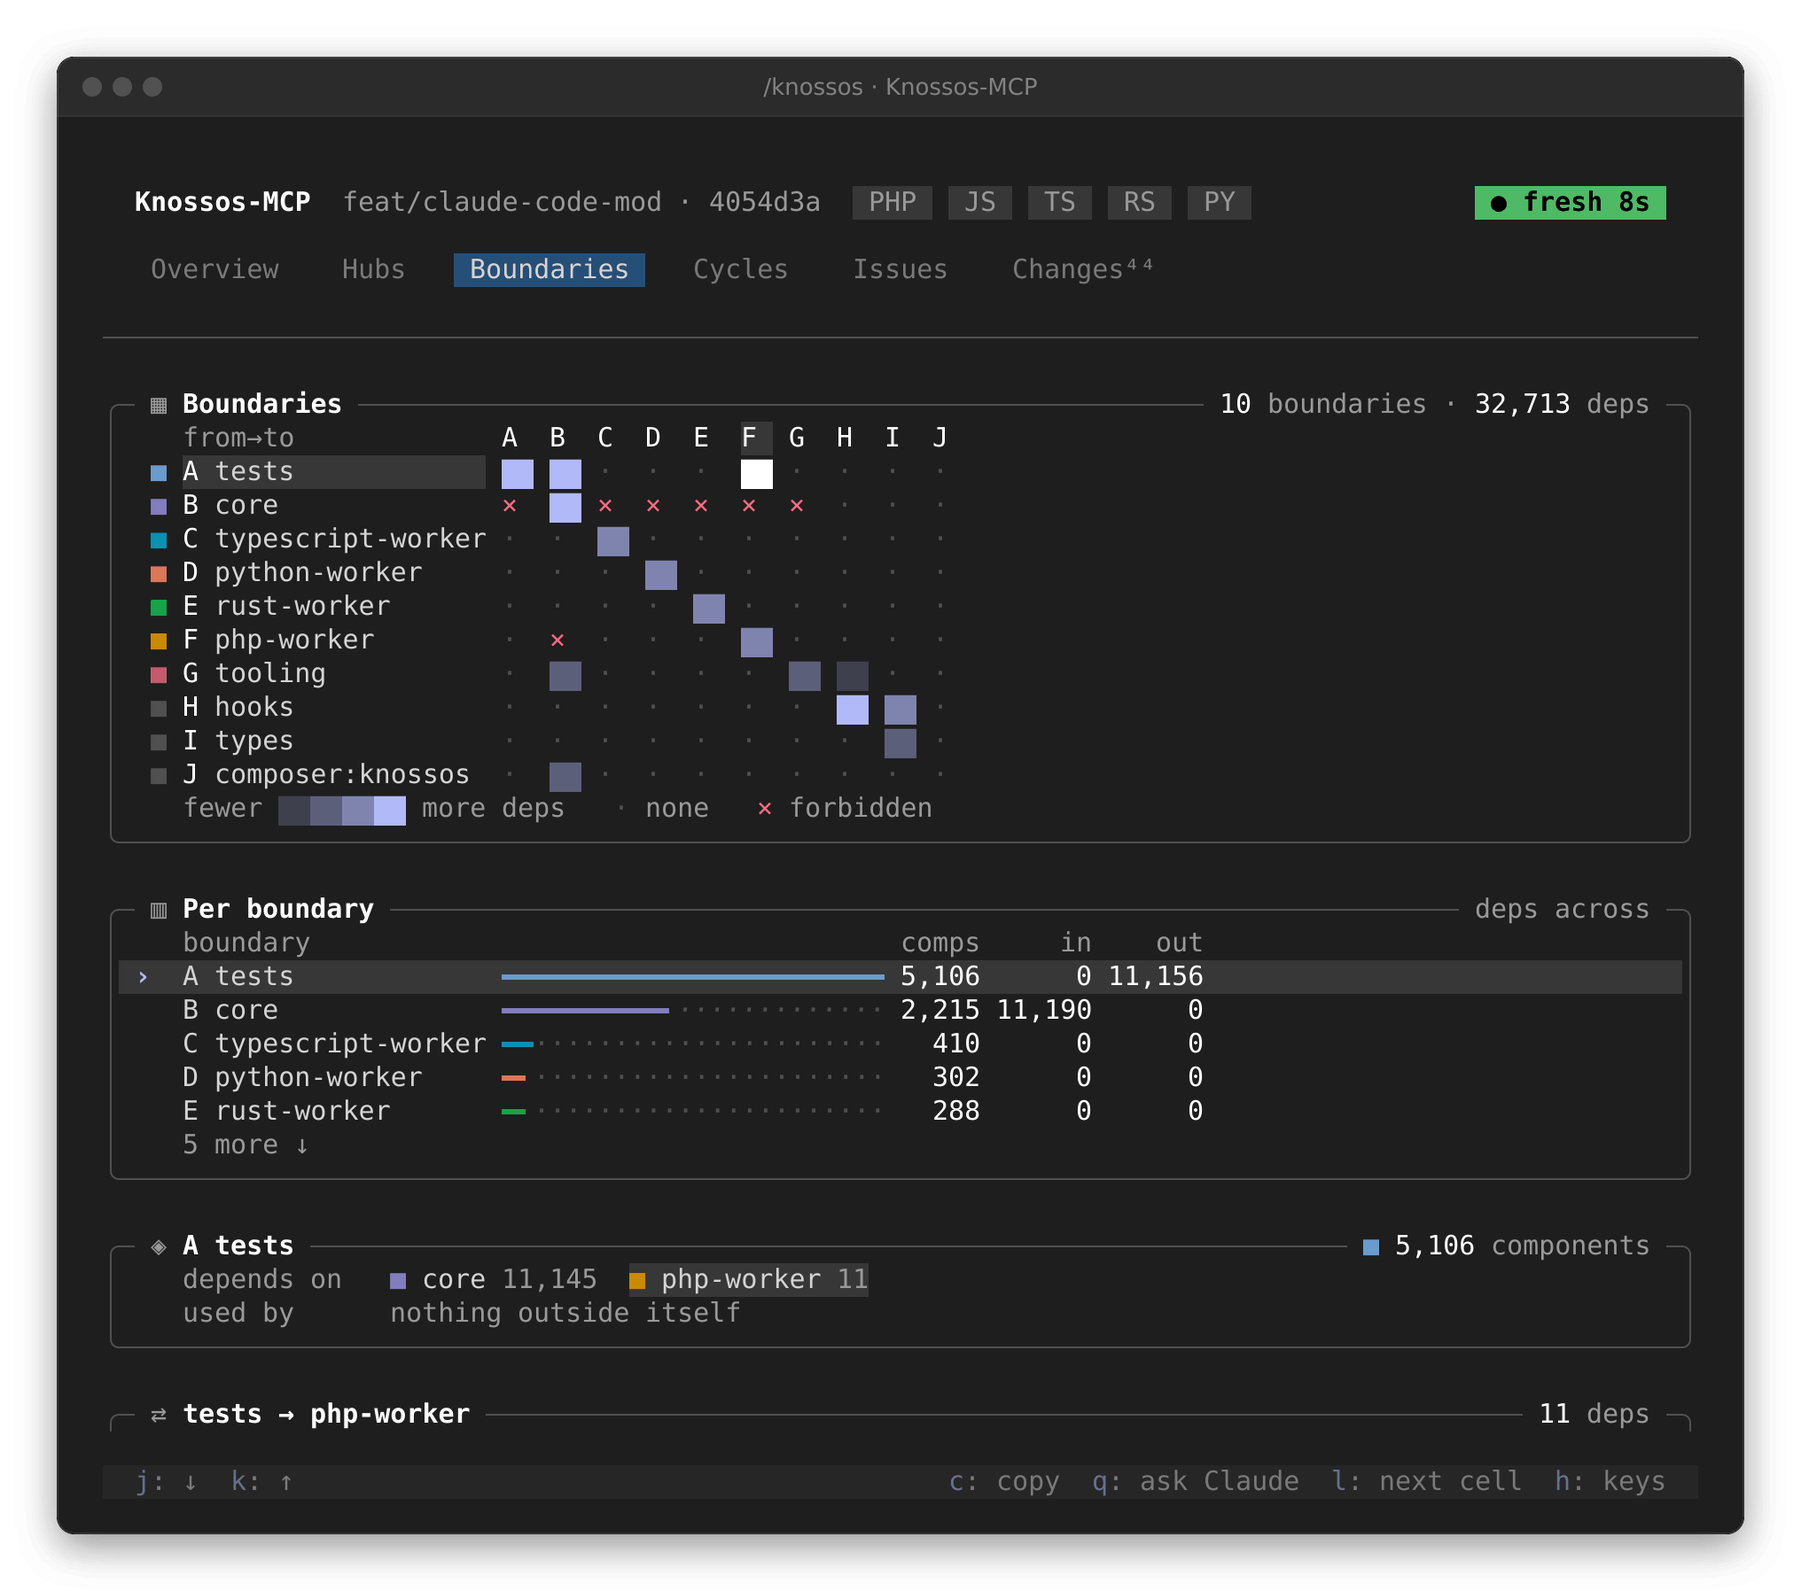
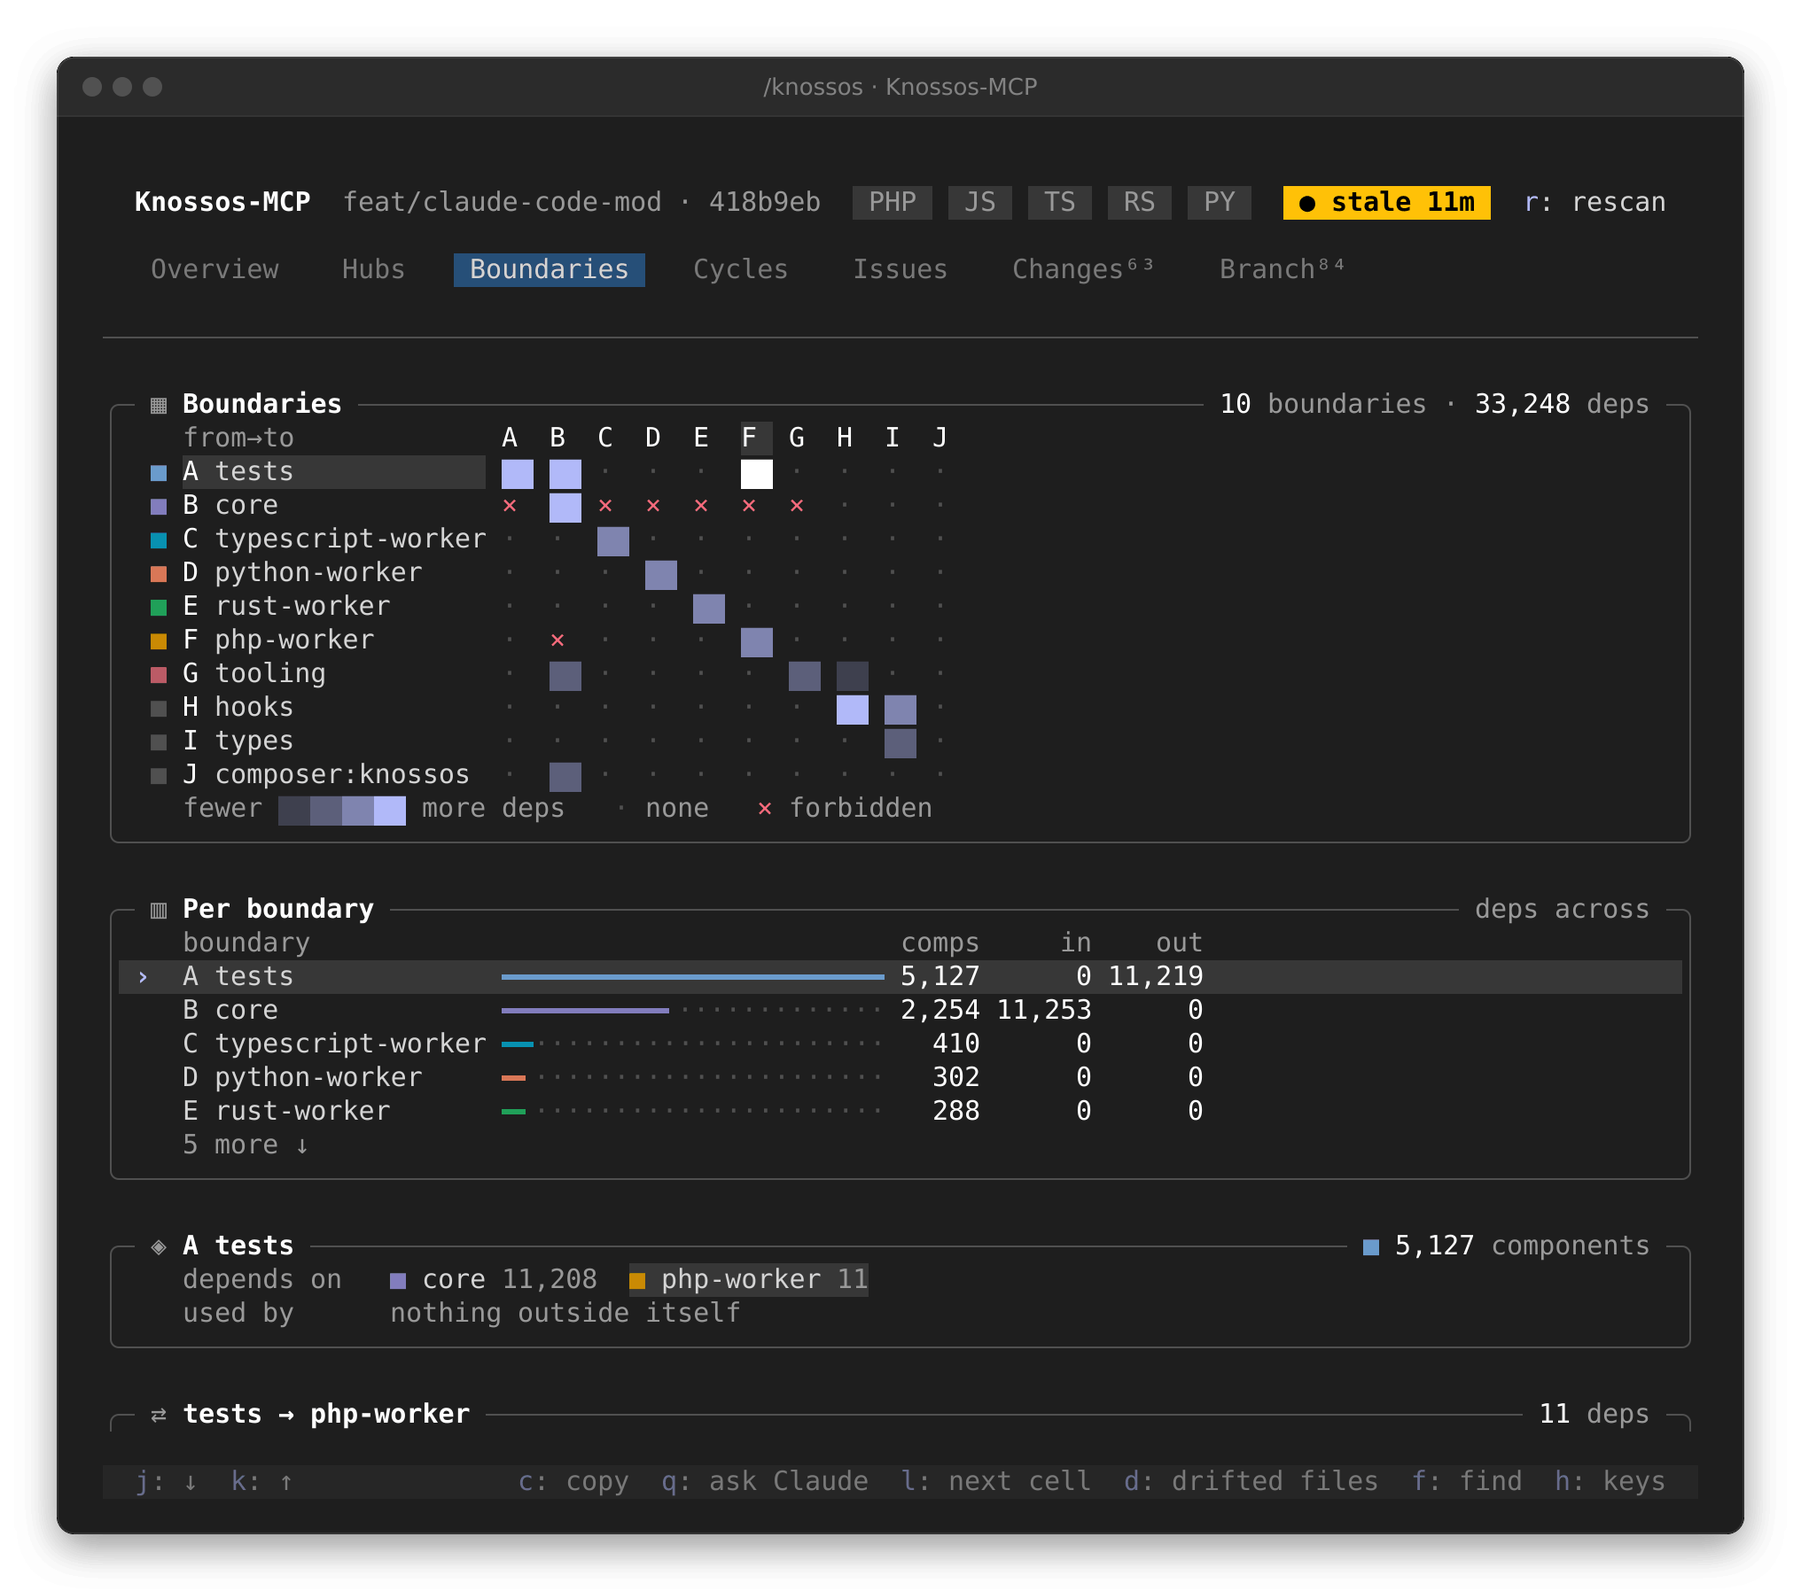
docs(mod): describe master-detail, two-tone paths, the row flash, the finder, the Branch tab, the untested marks, the knossos_context tool and the commit note, and redraw the README screenshots

diff --git a/docs/capabilities/claude-code-mod.md b/docs/capabilities/claude-code-mod.md
@@ -108,6 +108,33 @@ that cap is said at the next Read or edit of the file. A note that fails
 leaves the tool result as it was and one line in the debug log. A turn ends with at most one
 note. `agentNotes` turns them all off; the toast stays.
 
+**After a commit.** When a Bash call in any loop runs `git commit` (with
+options before it, as in `git -C dir commit`, or anywhere in a chain), the
+call's result carries one note of what the commit takes along, as far as the
+graph knows: the boundary-policy violations the session's turns introduced,
+the changed files no test reaches, and the cycles new since the session
+began (against the cycles the graph held when the session began):
+
+```text
+knossos: this commit carries 1 changed file no test reaches (src/Kernel.php); 1 dependency cycle new since the session began (Router → Kernel). Check them before you push.
+```
+
+Nothing new, no note. The same note is said once per loop, counts against
+the three notes a turn, and `agentNotes` turns it off.
+
+**On request.** The mod registers a tool the model calls itself,
+`knossos_context` (listed as `mcp__knossos__knossos_context`), with one
+argument, `path` (relative to the project or absolute). One call answers in
+a few lines, at most 2,000 characters: the file's boundary, language, lines
+and components; how many files depend on it, in which boundaries, and the
+closest five; the declared rules that bind it (or that a cap leaves that
+open); the tests that reach it, nearest first; its three latest commits;
+and whether this session changed it. It reads `knossos file-context <file>`
+through the wrapper when it is called (never in a drawing), and answers a
+path outside the project, or a project never scanned, with a sentence that
+says so. It is registered at the session's start, with the same retries as
+`/knossos`, whatever `agentNotes` says: the model asks for it.
+
 Approximate cost on this repository: 20 to 60 tokens for a Read note (60
 only for the first file read in a policed boundary), about 35 for an edit
 note, about 50 for a tests note naming three PHPUnit classes (up to about
@@ -186,7 +213,65 @@ Changes the files beside the tests; Issues the cards with nothing to list side
 by side as one-line rules first, then the lists in pairs. Cycles and a
 detail stand in one column at every width, since a diagram wants the room.
 
-Nothing the pane draws can wrap or push its card wider, on a terminal that
+Past 130 columns, Hubs, Changes, Issues, Cycles and Branch are master and
+detail: the tab on the left (55 percent, as a medium pane lays it out) and,
+beside it, the detail of the marked row, a component's neighbourhood or a
+file's dependents (with its change since the session began, drawn as text
+lines in the added and removed colours, since the engine's diff element
+spans the pane). Moving the marker looks the new row up after a short pause,
+so a run of `j` presses is one lookup; a press in the panel opens its row as
+the detail itself. A row with nothing to show (a boundary, a chart's bar)
+shows the tab alone. Boundaries keeps its own grid, whose lower row already
+spells out the marked boundary and its cell. Narrower panes open a row with
+`o`, as before.
+
+The cards stretch to the pane's foot: the last card of a column, or the rows
+of cards side by side in a grid, take the rows left over, so nothing ends
+above blank space. On a tall Overview the rows left after the charts go to
+two secondary lists, the complexity hotspots and the files most depended
+on, each a link to its file; on a shorter pane they are left out, and the
+marker never walks them, so what it walks does not depend on the height.
+
+Paths are drawn in two tones, the directory dim and the file name in the
+text colour. A path too long for its column loses the middle of its
+directory first, by whole folders (`src/…/Query/`, then `…/Query/`), then
+characters; the file name is cut only when it alone is wider than the
+column.
+
+When a new snapshot lands, the rows whose figures it changed (a hub's
+degrees, a file's dependents, a boundary's members, a stat tile's figure, a
+changed file a newer scan took in again) are drawn on a cool ground for
+about three seconds, then go back. The marked row keeps its own ground.
+
+`f` opens the finder over any tab: a field and the components and files
+whose name holds the typed letters in order (`dsvc` finds
+`DashboardService`), a type before its members, the closest first, at most
+twenty. The search (`knossos graph-search`) runs after a short pause in the
+typing, never in a drawing; until its answer for what is typed lands the
+card says `searching…` and keeps the last matches. Enter opens the first
+match (or the marked one), a click any; a component opens as its detail, a
+file as the file's. `x` or an empty Enter closes it, and the tab under it
+comes back as it was.
+
+The Branch tab (`7`) compares the checked-out branch with the snapshot taken
+where it left its default branch. `knossos branch-diff` finds the merge base
+through git, locally (the default branch is the one `origin/HEAD` names, else
+`main` or `master`), and matches it to a retained snapshot by the commit each
+scan was taken at: one at the merge base, else the nearest one before it
+(the tab says how many commits earlier). Then it lists what is new since:
+dependencies crossing from one boundary into another, cycles whose members
+did not already form one, hubs at least ten components depend on that more
+depend on now, newly unreferenced components, and policy violations whose
+dependency is new. Each list counts all and names the first eight, and each
+row opens its component. When no snapshot near the merge base is retained,
+the tab says so in the warning colour: with a snapshot taken after it, it
+compares against that one and says how many of the branch's commits it
+already holds, so what they changed is not shown; with none, it compares
+nothing. On the default branch itself, or without git, it says that too.
+The comparison is read when the tab opens and again for each new snapshot,
+never while another tab is open. The tab label counts what it found.
+
+Nothing the pane draws can wrap or push its card wider,Nothing the pane draws can wrap or push its card wider, on a terminal that
 counts cells as the layout does or not: every row is a box as wide as the
 pane that clips what passes its edge, every text in it cuts at that edge
 with an ellipsis, and a pressable name draws the name as the layout cut it,
@@ -207,8 +292,8 @@ between the lists in turn, up to ten each; then the charts take what they
 can use (the heat map's cells grow from one row to two or three); then the
 lists take the rest, up to 28 rows each. A chart in one column of
 the wide grid stops growing once it would leave the other column more than
-three rows shorter. The dashboard sends up to fifty hubs, hotspots, dead-code
-candidates and largest files, enough for a tall pane. A list cut short says `n more ↓` (and `n above ↑`
+three rows shorter. The dashboard sends up to fifty hubs, hotspots and dead-code
+candidates and thirty complexity hotspots and files over budget, enough for a tall pane. A list cut short says `n more ↓` (and `n above ↑`
 once the marker has moved down it), and moving the marker scrolls it. A pane
 too short for even those few rows scrolls as a whole.
 
@@ -401,9 +486,9 @@ change` for a flat one, drawn faint). Only with five snapshots or more.
   on, the bucket may count more) and the files step aside; `x` clears it, as
   does another tab.
   `◆` marks a hotspot
-  that is not also a hub. Methods read `Class::method`. `f` opens a filter
+  that is not also a hub. Methods read `Class::method`. `n` opens a filter
   field: the list narrows as you type to the components whose name holds the
-  text, Enter keeps the filter and `x` clears it. `s` sorts by in, out or
+  text, Enter keeps the filter and `x` clears it (`f` is the finder, on every tab). `s` sorts by in, out or
   cross-boundary degree in turn; the bar follows the sort, and the title says
   it (`Hubs and hotspots · sorted by in`). Resting the pointer on a name
   (where the surface has a pointer: not on mobile) shows a card over the
@@ -414,9 +499,9 @@ change` for a flat one, drawn faint). Only with five snapshots or more.
   nothing reaches the mod. The sorted column's numbers are in
   the text colour and the other two are dimmed. When every listed row sits in
   one boundary, the boundary column goes and the header says it once
-  (`all in core`); otherwise a row in the same boundary as the row above
-  draws its label fainter (its swatch keeps the colour), so the column reads
-  by where the boundary changes. `e` opens a hub's file at its declaration.
+  (`all in core`); otherwise every row draws its chip the same way, the
+  swatch in the boundary's colour and the name dim, whatever the row above
+  holds. `e` opens a hub's file at its declaration.
 - **Cycles:** the marked cycle drawn, and under it every cycle (the ten
   largest), each as a line naming its size, the boundary most of its members
   are in and how many others it reaches. The drawing is a serpentine of boxes,
@@ -456,8 +541,15 @@ change` for a flat one, drawn faint). Only with five snapshots or more.
 
 - **Issues:** the declared policy violations (each with the offending file
   and line), the scan's errors and warnings, the first fifty dead-code
-  candidates (`◇` marks one only tests reach) and the fifty largest files,
-  each list as long as the height allows. A card with nothing to list is one
+  candidates (`◇` marks one only tests reach), the complexity hotspots (the
+  files with the most lines times dependent files, a bar of that product
+  beside the two figures) and the files over the project's maintainability
+  budget (a PHP function longer than `max_php_function_lines` in its
+  `maintainability-budgets.json`: how many functions are over and the
+  longest; `✓ 0` when none is, and `no maintainability-budgets.json` without
+  one), each list as long as the height allows. The hotspots and the files
+  over budget are rows the marker walks: `o` opens the file's detail, `e`
+  the file (at its longest function). A card with nothing to list is one
   line (`── ! Policy violations ──── ✓ 0 ──`).
   The tab label carries the count of violations, errors and warnings, as in
   `Issues³`.
@@ -475,7 +567,12 @@ snapshot>`, read again after each scan the watcher sees, one read at a
   own changes, dim for one that took in changes made outside it, then how
   many of each (`session-changes` lists the scans since the session began,
   the newest 60). A row too short for all of them keeps the newest behind a
-  `…`. With
+  `…`. A
+  tests column says how many test files reach each changed file (counted one
+  file at a time, the 60 most depended on, within three seconds; `20+` at its
+  cap, blank where it is not known): `▲ none` in the warning colour for a
+  file no test reaches, and the count of those files stands above the table
+  (`▲ 2 files no test reaches`) and on the Overview's session card. With
   no watcher (switched off, or a container install) the tab falls back to
   what the session's turn briefs reported, added up, and says so. When the
   ledger cannot reach back to the session's start (a ledger an older knossos
@@ -618,7 +715,7 @@ what can be done to the marked row on the right, only the keys that do
 something in the view on show. For a moment after an action the footer says
 what it did, between the two (`✓ copied StableId`, `✓ opened in editor`,
 `✗ no editor · path copied`, in the success or error colour); the mod's age
-tick lets it fade after about two seconds. `1` to `6` switch tabs, `j` and `k` move the `›` marker (as does moving the focus with
+tick lets it fade after about two seconds. `1` to `7` switch tabs, `f` opens the finder, `j` and `k` move the `›` marker (as does moving the focus with
 Tab or the arrows onto a row), `o` or Enter opens the marked row, `e` opens
 the marked row's file in your editor, `c` copies and `q` asks about it, `t`
 copies the test command, `d` lists the drifted files, `l` moves the
@@ -735,7 +832,7 @@ pane (it hands the keyboard back), so `b` is the way back, and the filter
 clears with `x` or an empty Enter.
 
 Every `file:line` the pane shows is a link: the detail's place, the places on
-the Issues tab, the largest files, a file detail's path and the Changes
+the Issues tab, the Overview's secondary file lists, a file detail's path and the Changes
 tab's tests. It is a Markdown `file:` link (`#L<line>` names the
 line), so a ctrl- or cmd-click opens it as a link in one of Claude's replies
 would. A plain click, and `e` on the marked row (or on what the detail shows), runs `code -g <path>:<line>`, which VS Code
@@ -983,8 +1080,15 @@ one log line and turns the band and pane off for the session.
 
 The wrapper bounds each call: 60 seconds for `turn-brief` and the pane's
 rescan, 30 for `dashboard` (a first dashboard of a large project walks the
-whole graph), 15 for `component-detail`, `file-detail`, `session-changes`,
-`session-head`, `session-diff`, `boundary-couplings` and `allow-root`.
+whole graph) and for `branch-diff` (two whole graphs compared), 15 for
+`component-detail`, `file-detail`, `file-context`, `graph-search`,
+`session-changes`, `session-head`, `session-diff`, `boundary-couplings` and
+`allow-root`. `file-context` takes one file inside the project directory, as
+`file-detail` does; `graph-search` exactly `--query=` with one printable line
+of at most 200 characters; `branch-diff` nothing but the project. The
+container wrapper runs `file-context` and `branch-diff` as the image's user,
+so git may refuse the mounted repository there: the context then has no
+commits, and the Branch tab says there is no git.
 `boundary-couplings` takes exactly `--from=` and `--to=`, in that order, each
 a printable, non-empty boundary name. `session-diff` takes only a
 hex commit id and a file inside the project directory. The container

diff --git a/README.md b/README.md
@@ -419,10 +419,38 @@ whoever changed it, each file marked `this session` (Claude's own edits, subagen
 or `outside` (your editor, a checkout): with its dependents and its boundary, the tests that
 reach them, nearest first, and the command that runs them. A thin row of dots above the files
 shows the session's scans, Claude's and everyone else's apart. Without a watcher it adds up what
-the session's turns reported instead, and says so. Every file there opens to the files that
-depend on it.
+the session's turns reported instead, and says so. A changed file no test reaches is marked
+`▲ none` in its tests column and counted above the table, and on the Overview's session
+card. Every file there opens to the files that depend on it.
 
-![The Changes tab](docs/images/claude-code-mod/changes-dark.png)
+![The Changes tab, two files marked as reached by no test](docs/images/claude-code-mod/changes-dark.png)
+
+On a wide pane (past 130 columns) Hubs, Changes, Issues, Cycles and Branch stand beside the
+marked row's detail: move the marker and the neighbourhood, or a changed file's diff, follows
+it, without leaving the list. Paths are drawn in two tones, the directory dim and the file
+name bright, and a long one loses the middle of its directory, never its file name. Rows a
+new snapshot changed light up for about three seconds after it lands.
+
+![Hubs on a wide pane: the list on the left, the marked component's dependencies beside it](docs/images/claude-code-mod/hubs-peek-dark.png)
+
+The Branch tab compares the branch with the retained snapshot at its merge base with the
+default branch (found through git, locally): dependencies newly crossing from one boundary
+into another, new cycles, hubs that grew, new dead code and new policy violations, each
+opening its component. When no snapshot near the merge base is kept, it says so, and how
+partial the comparison against the nearest later one is.
+
+![The Branch tab, saying that no snapshot near the merge base is retained](docs/images/claude-code-mod/branch-dark.png)
+
+`f` opens a finder over every component and file: type letters of a name in order and Enter
+opens the first match. Hubs' own filter is now on `n`.
+
+![The finder, after typing dash](docs/images/claude-code-mod/finder-dark.png)
+
+Claude gets a `knossos_context` tool (listed as `mcp__knossos__knossos_context`): one call
+for a file's boundary and the rules that bind it, its dependents, the tests that reach it,
+its latest commits and whether this session changed it. After a `git commit`, in the main
+loop or a subagent, Claude reads one short note on what the commit carries: violations the
+session introduced, changed files no test reaches, and cycles new since the session began.
 
 The Boundaries tab maps how much each boundary depends on each other one, with the pairs a
 policy forbids in red. Marking a boundary spells out what it depends on, what depends on it,
